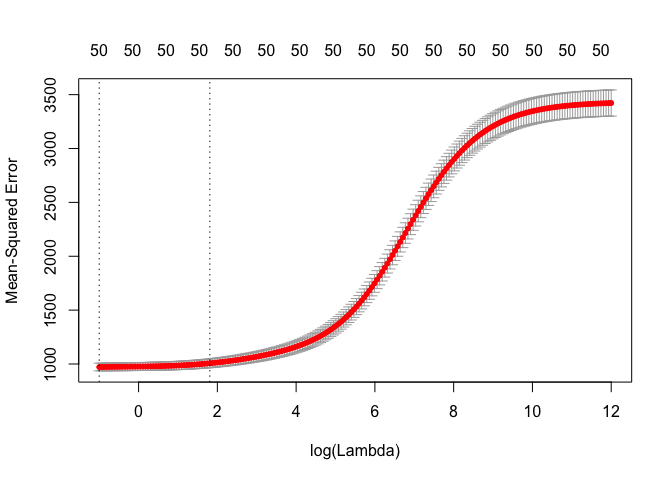
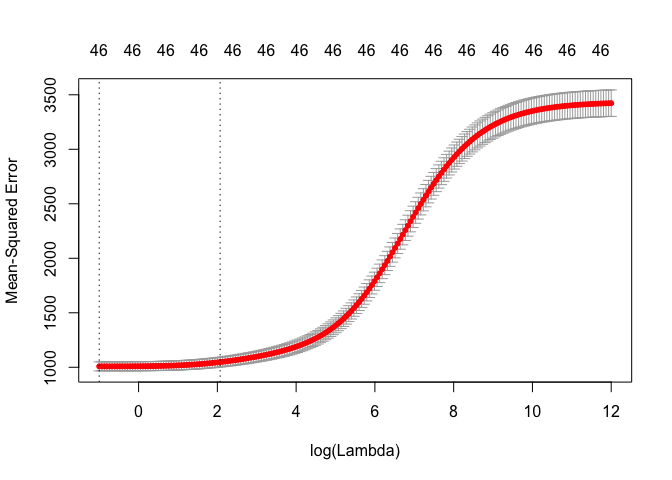
updated ridge model

diff --git a/laura_model.md b/laura_model.md
@@ -12,7 +12,7 @@ library(pls)
 ```
 
 ``` r
-heart <- read_csv("./data/laura_test_version.csv") %>% 
+heart <- read_csv("./data/train_noNA.csv") %>% 
   select(-row_id)
 ```
 
@@ -38,105 +38,8 @@ heart <- read_csv("./data/laura_test_version.csv") %>%
     ## See spec(...) for full column specifications.
 
 ``` r
-skimr::skim(heart)
-```
-
-    ## Skim summary statistics
-    ##  n obs: 2132 
-    ##  n variables: 37 
-    ## 
-    ## ── Variable type:character ───────────────────────────────────────────────────────────────────────────────────────────────────
-    ##           variable missing complete    n min max empty n_unique
-    ##  economic_typology       0     2132 2132  10  34     0        6
-    ##    metro_adjacency       0     2132 2132   5  11     0        3
-    ##        metro_ruccs       0     2132 2132   5   8     0        2
-    ##   population_ruccs       0     2132 2132  11  37     0        9
-    ##    pure_population       0     2132 2132   7  19     0        6
-    ##                 yr       0     2132 2132   1   1     0        2
-    ## 
-    ## ── Variable type:integer ─────────────────────────────────────────────────────────────────────────────────────────────────────
-    ##                                  variable missing complete    n    mean
-    ##                   demo__birth_rate_per_1k       0     2132 2132   11.74
-    ##                   demo__death_rate_per_1k       0     2132 2132   10.29
-    ##  health__air_pollution_particulate_matter      25     2107 2132   11.61
-    ##                   health__pop_per_dentist     161     1971 2132 3368.7 
-    ##    health__pop_per_primary_care_physician     142     1990 2132 2498.79
-    ##          heart_disease_mortality_per_100k       0     2132 2132  279.55
-    ##                           urban_influence       0     2132 2132    5.43
-    ##       sd  p0     p25    p50  p75  p100     hist
-    ##     2.78   4   10      11     13    29 ▁▅▇▃▁▁▁▁
-    ##     2.75   1    8      10     12    22 ▁▂▃▇▆▁▁▁
-    ##     1.55   7   10      12     13    15 ▁▂▅▅▆▇▂▁
-    ##  2392.15 350 1814.5  2690   4044 25310 ▇▃▁▁▁▁▁▁
-    ##  1929.37 189 1422.25 2009.5 2870 20910 ▇▂▁▁▁▁▁▁
-    ##    59.26 110  237     275    317   512 ▁▃▇▇▅▂▁▁
-    ##     3.55   1    2       5      8    12 ▇▁▃▂▁▃▂▂
-    ## 
-    ## ── Variable type:numeric ─────────────────────────────────────────────────────────────────────────────────────────────────────
-    ##                                          variable missing complete    n
-    ##              demo__pct_adults_bachelors_or_higher       0     2132 2132
-    ##  demo__pct_adults_less_than_a_high_school_diploma       0     2132 2132
-    ##         demo__pct_adults_with_high_school_diploma       0     2132 2132
-    ##                demo__pct_adults_with_some_college       0     2132 2132
-    ##                 demo__pct_aged_65_years_and_older       1     2131 2132
-    ##       demo__pct_american_indian_or_alaskan_native       1     2131 2132
-    ##                                   demo__pct_asian       1     2131 2132
-    ##                   demo__pct_below_18_years_of_age       1     2131 2132
-    ##                                  demo__pct_female       1     2131 2132
-    ##                                demo__pct_hispanic       1     2131 2132
-    ##           demo__pct_non_hispanic_african_american       1     2131 2132
-    ##                      demo__pct_non_hispanic_white       1     2131 2132
-    ##                          econ__pct_civilian_labor       0     2132 2132
-    ##                            econ__pct_unemployment       0     2132 2132
-    ##                        econ__pct_uninsured_adults       1     2131 2132
-    ##                      econ__pct_uninsured_children       1     2131 2132
-    ##                        health__homicides_per_100k    1299      833 2132
-    ##       health__motor_vehicle_crash_deaths_per_100k     283     1849 2132
-    ##                         health__pct_adult_obesity       1     2131 2132
-    ##                         health__pct_adult_smoking     290     1842 2132
-    ##                              health__pct_diabetes       1     2131 2132
-    ##                    health__pct_excessive_drinking     634     1498 2132
-    ##                       health__pct_low_birthweight     125     2007 2132
-    ##                   health__pct_physical_inacticity       1     2131 2132
-    ##    mean     sd     p0    p25    p50    p75  p100     hist
-    ##   0.2    0.087  0.025  0.14   0.18   0.23   0.79 ▂▇▃▁▁▁▁▁
-    ##   0.15   0.068  0.015  0.097  0.13   0.19   0.41 ▂▇▇▆▃▁▁▁
-    ##   0.35   0.07   0.075  0.31   0.35   0.4    0.56 ▁▁▂▅▇▆▂▁
-    ##   0.3    0.053  0.11   0.27   0.3    0.34   0.47 ▁▁▃▇▇▅▂▁
-    ##   0.17   0.044  0.045  0.14   0.17   0.2    0.35 ▁▂▆▇▃▁▁▁
-    ##   0.026  0.087  0      0.002  0.007  0.015  0.85 ▇▁▁▁▁▁▁▁
-    ##   0.013  0.027  0      0.003  0.007  0.013  0.34 ▇▁▁▁▁▁▁▁
-    ##   0.23   0.034  0.092  0.21   0.23   0.25   0.42 ▁▁▅▇▂▁▁▁
-    ##   0.5    0.024  0.28   0.49   0.5    0.51   0.57 ▁▁▁▁▁▃▇▁
-    ##   0.091  0.14   0      0.019  0.035  0.09   0.93 ▇▁▁▁▁▁▁▁
-    ##   0.091  0.15   0      0.006  0.023  0.097  0.86 ▇▁▁▁▁▁▁▁
-    ##   0.77   0.21   0.061  0.64   0.85   0.94   0.99 ▁▁▁▁▂▂▃▇
-    ##   0.47   0.073  0.21   0.42   0.47   0.51   0.94 ▁▂▇▇▁▁▁▁
-    ##   0.06   0.024  0.01   0.044  0.057  0.072  0.25 ▂▇▃▁▁▁▁▁
-    ##   0.22   0.067  0.046  0.17   0.22   0.26   0.47 ▁▅▇▇▅▂▁▁
-    ##   0.086  0.039  0.015  0.058  0.078  0.11   0.28 ▃▇▅▂▁▁▁▁
-    ##   6.08   5.2   -0.4    2.7    4.8    8     50.49 ▇▅▁▁▁▁▁▁
-    ##  21.2   10.29   3.3   13.74  19.73  26.49  84.51 ▅▇▅▂▁▁▁▁
-    ##   0.31   0.043  0.13   0.28   0.31   0.34   0.46 ▁▁▂▅▇▃▁▁
-    ##   0.21   0.063  0.046  0.17   0.21   0.25   0.51 ▁▃▇▆▂▁▁▁
-    ##   0.11   0.023  0.032  0.094  0.11   0.12   0.2  ▁▁▆▇▅▂▁▁
-    ##   0.17   0.05   0.038  0.13   0.17   0.2    0.37 ▁▅▇▇▅▂▁▁
-    ##   0.084  0.022  0.033  0.069  0.081  0.095  0.24 ▂▇▅▂▁▁▁▁
-    ##   0.28   0.052  0.1    0.24   0.28   0.31   0.42 ▁▁▂▆▇▆▃▁
-
-``` r
-#removing var with over 10% missing health__homicides_per_100k, health__pct_excessive_drinking
-
-heart <- heart %>% 
-  select(-health__homicides_per_100k, 
-    -health__pct_excessive_drinking)
-#two missingest variables
-
-heart_nona <- heart %>% 
-  drop_na()
-
-x <- model.matrix(heart_disease_mortality_per_100k ~ ., data = heart_nona)[,-1]
-y <- heart_nona$heart_disease_mortality_per_100k
+x <- model.matrix(heart_disease_mortality_per_100k ~ ., data = heart)[,-1]
+y <- heart$heart_disease_mortality_per_100k
 ```
 
 Set up `caret` training control. We will use this for all models.
@@ -227,22 +130,15 @@ plotmo::plot_glmnet(ridge_cv_glmnet$glmnet.fit, xvar = "lambda")
 ridge_cv_table <- tibble(lambda_values = ridge_cv_glmnet$lambda, mse = ridge_cv_glmnet$cvm, mse_upper = ridge_cv_glmnet$cvup, mse_lower = ridge_cv_glmnet$cvlo)
 
 ##MSE
-ridge_cv_table %>% 
+ridge_cv_table_best <- ridge_cv_table %>% 
   arrange(mse) %>% 
   filter(lambda_values == best_lambda_ridge)
-```
 
-    ## # A tibble: 1 x 4
-    ##   lambda_values   mse mse_upper mse_lower
-    ##           <dbl> <dbl>     <dbl>     <dbl>
-    ## 1          4.13  995.     1034.      955.
-
-``` r
 ridge_mse_plot <- ridge_cv_table %>% 
   filter(lambda_values %in% exp(seq(-1, 4, length = 200))) %>% 
   ggplot(aes(x = log(lambda_values), y = mse)) +
   geom_point() +
-  geom_point(aes(x = log(best_lambda_ridge), y = 995), color = "red") +
+  geom_point(aes(x = log(best_lambda_ridge), y = ridge_cv_table_best$mse), color = "red") +
   geom_ribbon(aes(ymin = mse_lower, ymax = mse_upper), alpha = 0.1)
   
 ridge_mse_plot + annotate("text", x = 0.5 + log(best_lambda_ridge), y = 985, label = "Lambda chosen by caret", color = "red")
@@ -262,78 +158,74 @@ broom::tidy(ridge_glmnet) %>%
   arrange(abs(estimate)) #see shrunk coefficients with lambda chosen by caret
 ```
 
-    ## # A tibble: 51 x 5
+    ## # A tibble: 47 x 5
     ##    term                                     step estimate lambda dev.ratio
     ##    <chr>                                   <dbl>    <dbl>  <dbl>     <dbl>
-    ##  1 health__pop_per_dentist                     1  6.97e-4   4.13     0.724
-    ##  2 health__pop_per_primary_care_physician      1 -9.43e-4   4.13     0.724
-    ##  3 health__motor_vehicle_crash_deaths_per…     1  5.00e-1   4.13     0.724
-    ##  4 population_ruccsUrban 2,500-19,999 met…     1 -6.63e-1   4.13     0.724
-    ##  5 economic_typologyManufacturing-depende…     1  8.81e-1   4.13     0.724
-    ##  6 pure_population>20,000                      1  1.17e+0   4.13     0.724
-    ##  7 pure_population2,500 - <20,000              1  1.25e+0   4.13     0.724
-    ##  8 pure_population> 1,000,000                  1  1.42e+0   4.13     0.724
-    ##  9 demo__birth_rate_per_1k                     1  1.46e+0   4.13     0.724
-    ## 10 urban_influence                             1 -1.60e+0   4.13     0.724
-    ## # ... with 41 more rows
+    ##  1 health__pop_per_primary_care_physician      1 -8.22e-4   4.13     0.715
+    ##  2 health__pop_per_dentist                     1  1.03e-3   4.13     0.715
+    ##  3 health__motor_vehicle_crash_deaths_per…     1  4.32e-1   4.13     0.715
+    ##  4 population_ruccsUrban 2,500-19,999 met…     1 -5.61e-1   4.13     0.715
+    ##  5 population_ruccsRural metro non-adjace…     1  9.87e-1   4.13     0.715
+    ##  6 pure_population>20,000                      1  1.18e+0   4.13     0.715
+    ##  7 demo__birth_rate_per_1k                     1  1.31e+0   4.13     0.715
+    ##  8 economic_typologyManufacturing-depende…     1  1.47e+0   4.13     0.715
+    ##  9 pure_population2,500 - <20,000              1  1.51e+0   4.13     0.715
+    ## 10 pure_population> 1,000,000                  1  1.61e+0   4.13     0.715
+    ## # ... with 37 more rows
 
 ``` r
 predict(ridge_glmnet, s = best_lambda_ridge, type="coefficients") 
 ```
 
-    ## 51 x 1 sparse Matrix of class "dgCMatrix"
+    ## 47 x 1 sparse Matrix of class "dgCMatrix"
     ##                                                                   1
-    ## (Intercept)                                            1.170370e+02
-    ## metro_ruccsNonmetro                                    1.758975e+00
-    ## population_ruccsMetro > 1 million                      1.683219e+00
-    ## population_ruccsMetro 250k - 1 million                -2.390555e+00
-    ## population_ruccsRural metro non-adjacent               1.788495e+00
-    ## population_ruccsRural metro-adjacent                  -2.920196e+00
-    ## population_ruccsUrban >20,000 metro non-adjacent       9.242630e+00
-    ## population_ruccsUrban >20,000 metro-adjacent          -2.435937e+00
-    ## population_ruccsUrban 2,500-19,999 metro non-adjacent  2.713711e+00
-    ## population_ruccsUrban 2,500-19,999 metro-adjacent     -6.628882e-01
-    ## urban_influence                                       -1.600263e+00
-    ## economic_typologyFederal/State government-dependent    4.656914e+00
-    ## economic_typologyManufacturing-dependent               8.806091e-01
-    ## economic_typologyMining-dependent                      7.153622e+00
-    ## economic_typologyNonspecialized                        1.775345e+00
-    ## economic_typologyRecreation                           -6.475776e+00
-    ## econ__pct_civilian_labor                              -6.255932e+01
-    ## econ__pct_unemployment                                 5.507548e+01
-    ## econ__pct_uninsured_adults                             1.048505e+02
-    ## econ__pct_uninsured_children                          -7.006002e+01
-    ## demo__pct_female                                       7.524871e+01
-    ## demo__pct_below_18_years_of_age                        2.712488e+01
-    ## demo__pct_aged_65_years_and_older                     -3.656328e+02
-    ## demo__pct_hispanic                                    -4.977032e+01
-    ## demo__pct_non_hispanic_african_american                7.501424e+00
-    ## demo__pct_non_hispanic_white                           2.410228e+00
-    ## demo__pct_american_indian_or_alaskan_native           -8.237652e+01
-    ## demo__pct_asian                                        8.531104e+00
-    ## demo__pct_adults_less_than_a_high_school_diploma       3.951695e+01
-    ## demo__pct_adults_with_high_school_diploma              4.311498e+01
-    ## demo__pct_adults_with_some_college                    -5.574889e+01
-    ## demo__pct_adults_bachelors_or_higher                  -2.972377e+01
-    ## demo__birth_rate_per_1k                                1.461743e+00
-    ## demo__death_rate_per_1k                                7.348661e+00
-    ## health__pct_adult_obesity                              7.245974e+01
-    ## health__pct_adult_smoking                              7.311802e+01
-    ## health__pct_diabetes                                   1.128643e+02
-    ## health__pct_low_birthweight                            2.259042e+02
-    ## health__pct_physical_inacticity                        2.031697e+02
-    ## health__air_pollution_particulate_matter              -2.087671e+00
-    ## health__motor_vehicle_crash_deaths_per_100k            4.996311e-01
-    ## health__pop_per_dentist                                6.969031e-04
-    ## health__pop_per_primary_care_physician                -9.433868e-04
-    ## yrb                                                   -4.930563e+00
-    ## pure_population< 250,000                              -2.786769e+00
-    ## pure_population> 1,000,000                             1.416386e+00
-    ## pure_population>20,000                                 1.166780e+00
-    ## pure_population2,500 - <20,000                         1.247457e+00
-    ## pure_population250,000 - 1,000,000                    -2.693176e+00
-    ## metro_adjacencymetro                                  -2.174717e+00
-    ## metro_adjacencynonadjacent                             4.788807e+00
+    ## (Intercept)                                            1.080287e+02
+    ## metro_ruccsNonmetro                                    1.948731e+00
+    ## population_ruccsMetro > 1 million                      1.867580e+00
+    ## population_ruccsMetro 250k - 1 million                -2.491570e+00
+    ## population_ruccsRural metro non-adjacent               9.866911e-01
+    ## population_ruccsRural metro-adjacent                  -2.210542e+00
+    ## population_ruccsUrban >20,000 metro non-adjacent       1.001410e+01
+    ## population_ruccsUrban >20,000 metro-adjacent          -2.699436e+00
+    ## population_ruccsUrban 2,500-19,999 metro non-adjacent  3.111674e+00
+    ## population_ruccsUrban 2,500-19,999 metro-adjacent     -5.612892e-01
+    ## urban_influence                                       -1.854359e+00
+    ## economic_typologyFederal/State government-dependent    4.154969e+00
+    ## economic_typologyManufacturing-dependent               1.474207e+00
+    ## economic_typologyMining-dependent                      5.875431e+00
+    ## economic_typologyNonspecialized                        1.980021e+00
+    ## economic_typologyRecreation                           -7.155487e+00
+    ## econ__pct_civilian_labor                              -6.631385e+01
+    ## econ__pct_unemployment                                 3.379435e+01
+    ## econ__pct_uninsured_adults                             9.234713e+01
+    ## econ__pct_uninsured_children                          -9.714977e+01
+    ## demo__pct_female                                       9.700622e+01
+    ## demo__pct_below_18_years_of_age                       -2.792186e+01
+    ## demo__pct_aged_65_years_and_older                     -3.722435e+02
+    ## demo__pct_adults_less_than_a_high_school_diploma       3.537473e+01
+    ## demo__pct_adults_with_high_school_diploma              3.914648e+01
+    ## demo__pct_adults_with_some_college                    -6.080707e+01
+    ## demo__pct_adults_bachelors_or_higher                  -2.365987e+01
+    ## demo__birth_rate_per_1k                                1.311242e+00
+    ## demo__death_rate_per_1k                                7.258627e+00
+    ## health__pct_adult_obesity                              1.063543e+02
+    ## health__pct_adult_smoking                              4.940033e+01
+    ## health__pct_diabetes                                   1.595212e+02
+    ## health__pct_low_birthweight                            3.632659e+02
+    ## health__pct_physical_inacticity                        2.066635e+02
+    ## health__air_pollution_particulate_matter              -1.665635e+00
+    ## health__motor_vehicle_crash_deaths_per_100k            4.324451e-01
+    ## health__pop_per_dentist                                1.029703e-03
+    ## health__pop_per_primary_care_physician                -8.217212e-04
+    ## yrb                                                   -4.523900e+00
+    ## demo__pct_nonwhite                                    -2.609795e+01
+    ## pure_population< 250,000                              -3.385788e+00
+    ## pure_population> 1,000,000                             1.613758e+00
+    ## pure_population>20,000                                 1.178547e+00
+    ## pure_population2,500 - <20,000                         1.507804e+00
+    ## pure_population250,000 - 1,000,000                    -2.781098e+00
+    ## metro_adjacencymetro                                  -2.350506e+00
+    ## metro_adjacencynonadjacent                             4.908417e+00
 
 Our best lambda is 4.1250801, but it's not an entirely stable value because RMSE does not differ substantially in the range; that is, glm chooses a different value. I think we should proceed with the lambda chosen by caret because of its more stringent shrinking power. With that, our MSE is:
 
@@ -346,4 +238,4 @@ ridge_cv_table %>%
 
 |  lambda\_values|       mse|  mse\_upper|  mse\_lower|
 |---------------:|---------:|-----------:|-----------:|
-|         4.12508|  994.8452|    1034.393|    955.2969|
+|         4.12508|  1025.875|    1069.112|    982.6371|
